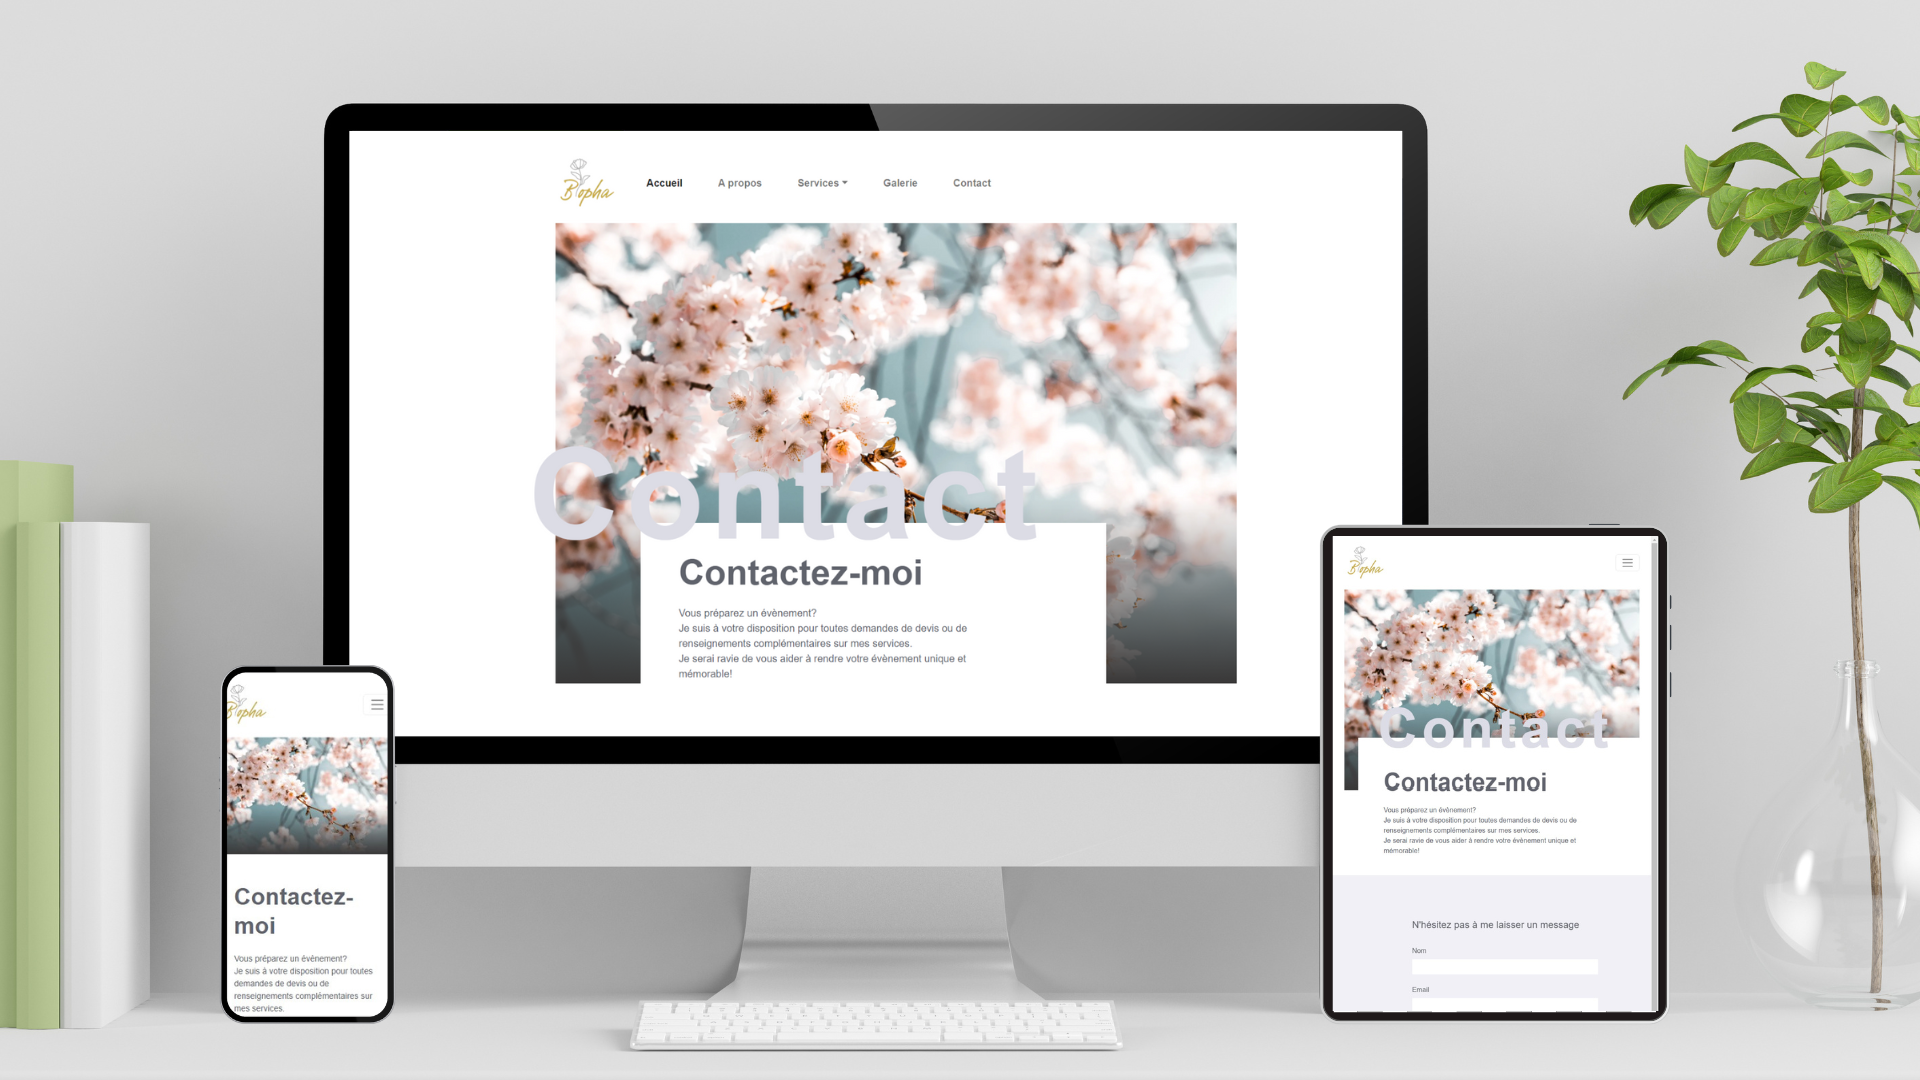
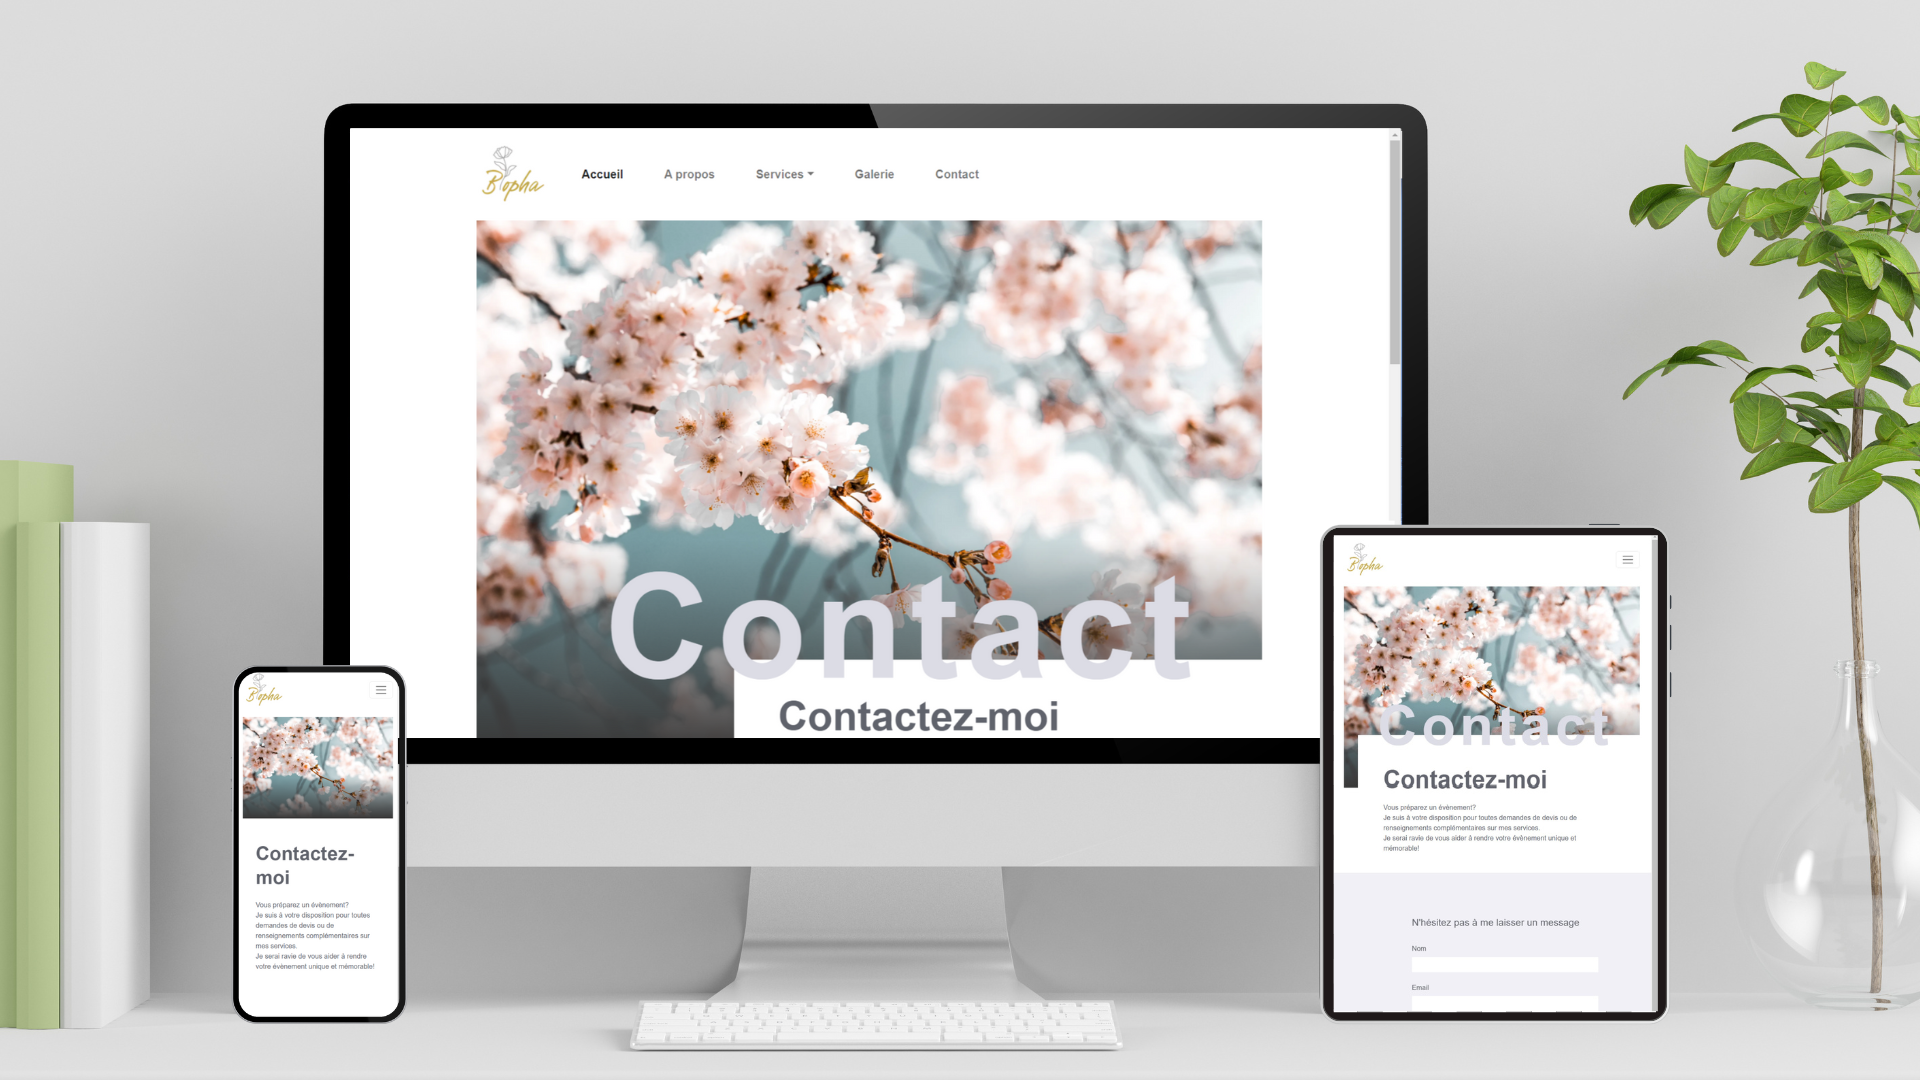
section services to correct

diff --git a/styles/Home.module.css b/styles/Home.module.css
@@ -5,7 +5,7 @@
   font-weight: 800;
   line-height: 1;
   letter-spacing: -3px;
-  margin-top: 15%;
+  margin-top: 6%;
 }
 .first {
   background: linear-gradient(90deg, #fabd12, #9bffc9);
@@ -21,7 +21,7 @@
 }
 
 .banner {
-  min-height: 65vh;
+  min-height: 50vh;
   max-width: 1100px;
   width: calc(100% - 10%);
   margin: 10% auto;
@@ -100,17 +100,26 @@
 
 @media (max-width: 1024px) {
   .banner h1 {
-    margin-top: 20%;
+    margin-top: 15%;
     font-size: 60px;
   }
 }
-@media (max-width: 768px) {
+@media (max-width: 834px) {
+  .banner {
+    min-height: 35vh;
+  }
   .content {
     font-size: 13px;
+  }
+  .btnSlide {
+    margin: 0px 10px 0px 30px;
   }
 }
 
 @media (max-width: 415px) {
+  .banner {
+    min-height: 60vh;
+  }
   .banner h1 {
     margin-top: 30%;
     font-size: 30px;
@@ -132,6 +141,9 @@
 }
 
 @media (max-width: 320px) {
+  .banner {
+    min-height: 70vh;
+  }
   .btnSlide {
     margin: 30px 30px 10px 0px;
   }
@@ -141,31 +153,43 @@
 
 
 /*  CSS  section Services */
+.container {
+  display: flex;
+  justify-content: center;
+  flex-wrap: wrap;
+}
+
 .services {
   display: flex;
   flex-direction: row;
-  justify-content: space-around;
+  justify-content: flex-start;  
+  border-top:solid 1px #ffffff34;
+}
+.services:nth-child(2n) {
+  flex-direction: row-reverse;
 }
 
-.imgFluid {
-  width:60%;
+.imgFluid {  
+  width: 630px;
+  height: auto;  
+}
+.imgFluid img {
+  width: 100%;
+  height: auto;
 }
 
 .description {
-  width:40%;  
-  padding-left: 10%;
-  padding-right: 3%;
+  padding: 3%;
 }
 
 .header {
-  border-bottom-style: solid;
-width: max-content;
+border-bottom-style: solid;
 word-wrap: break-word;
+padding-right:10px;
 margin-top: 30px;
 }
 
 .description p {
-  font-size: 16px;
   margin: 30px 0;
 }
 
@@ -184,17 +208,18 @@ margin-top: 30px;
   color: #9bffc9;
 }
 
-@media (max-width: 835px) {
+@media (max-width: 834px) {
   .services {
-    flex-direction: column;
+    flex-direction: column;    
+  }
+  .services:nth-child(2n) {
+    flex-direction: row;
   }
   .imgFluid {
     width:100%;
   }  
   .description {
-    width:100%;  
-    padding-left: 10%;
-    padding-right: 3%;
+    width:100%; 
   }
 }
 /*  CSS  Fin section Services */

diff --git a/pages/index.js b/pages/index.js
@@ -56,6 +56,25 @@ export default function Home() {
               </ul>
             </div>
           </article>
+          <article className={styles.services}>
+            <div className={styles.imgFluid}>
+              <Image src={project_1} alt="site web responsives" width="1920" height="1080" layout="responsive" />
+            </div>
+
+            <div className={styles.description}>
+              <div className={styles.header}>
+                <h2>Création de sites web responsives</h2>
+              </div>
+              <p>Je crée des sites web dynamiques compatibles à tous support: PC, tablette et mobile.<br/>
+              Avec une intégration repectueuse des standard du web pour un référencement optimal.
+              </p>
+              <ul className={styles.action}>
+                <li>
+                  <Link className={styles.btnOutline} href="/projets">En savoir plus</Link>
+                </li>
+              </ul>
+            </div>
+          </article>
         </div>
       </section>
     </>

diff --git a/components/Header/header.module.css b/components/Header/header.module.css
@@ -1,5 +1,4 @@
-.header {
-  position: relative;
+.header {  
   height: 50px;
 }
 
@@ -7,13 +6,8 @@
   display: flex;
   justify-content: space-between;
   align-items: center;
-  overflow: hidden;
-  position: fixed;
-  top: 0;
-  width: 100%;
-  z-index: 1000;
-  background-color: #d86d7b;
-  box-shadow: 0 2px 4px 0 rgba(0,0,0,.2);
+  overflow: hidden; 
+  background-color: transparent;
 }
 
 .nav {
